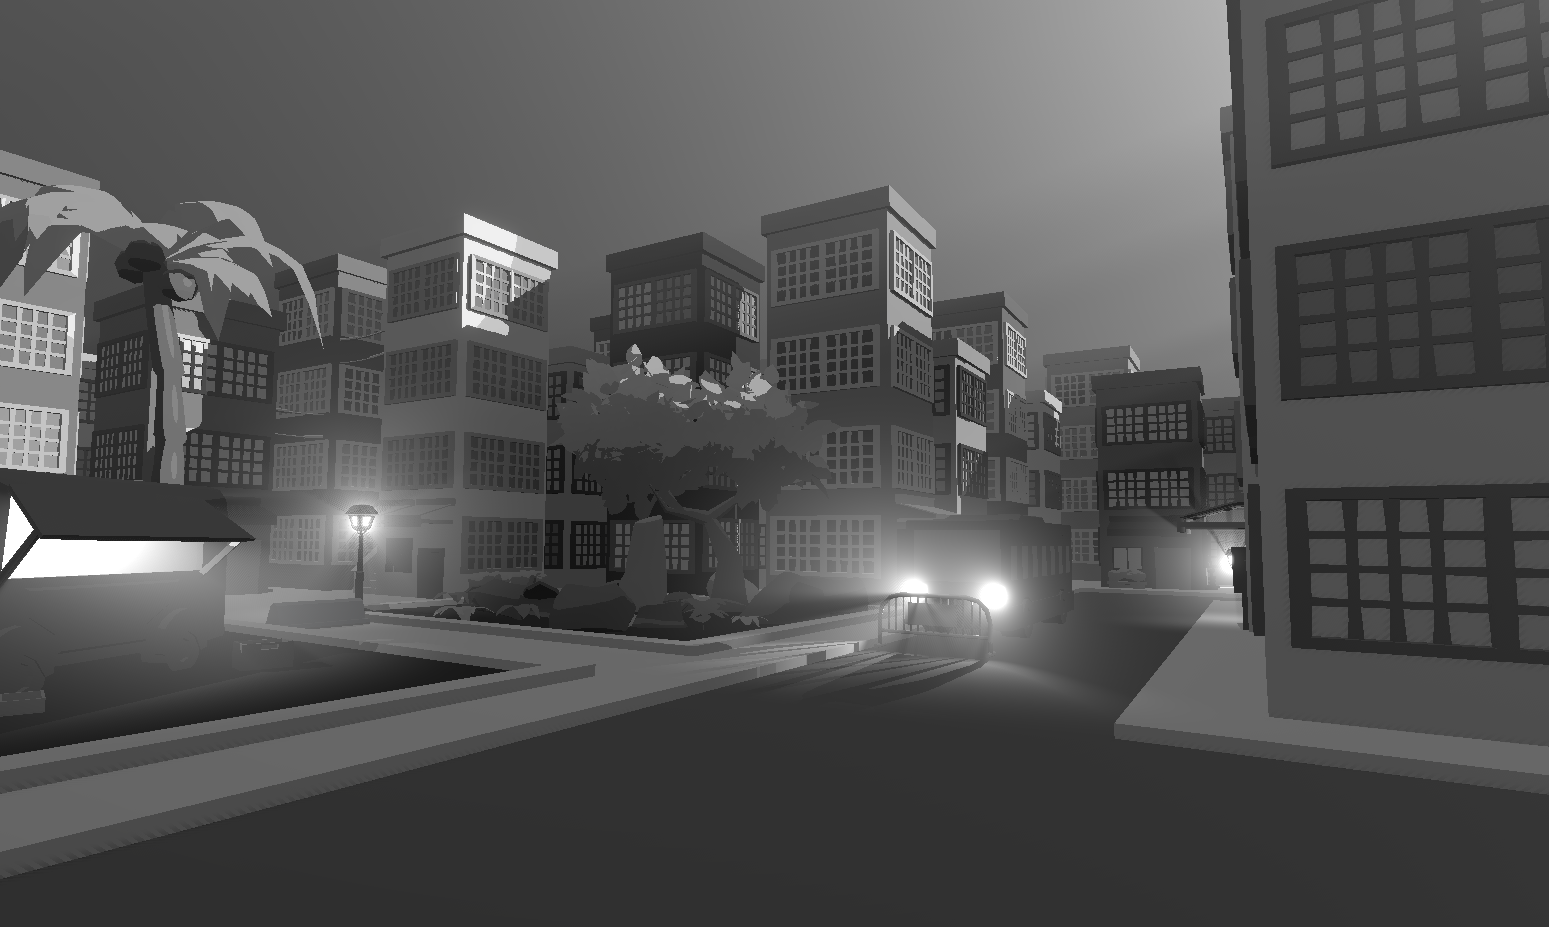
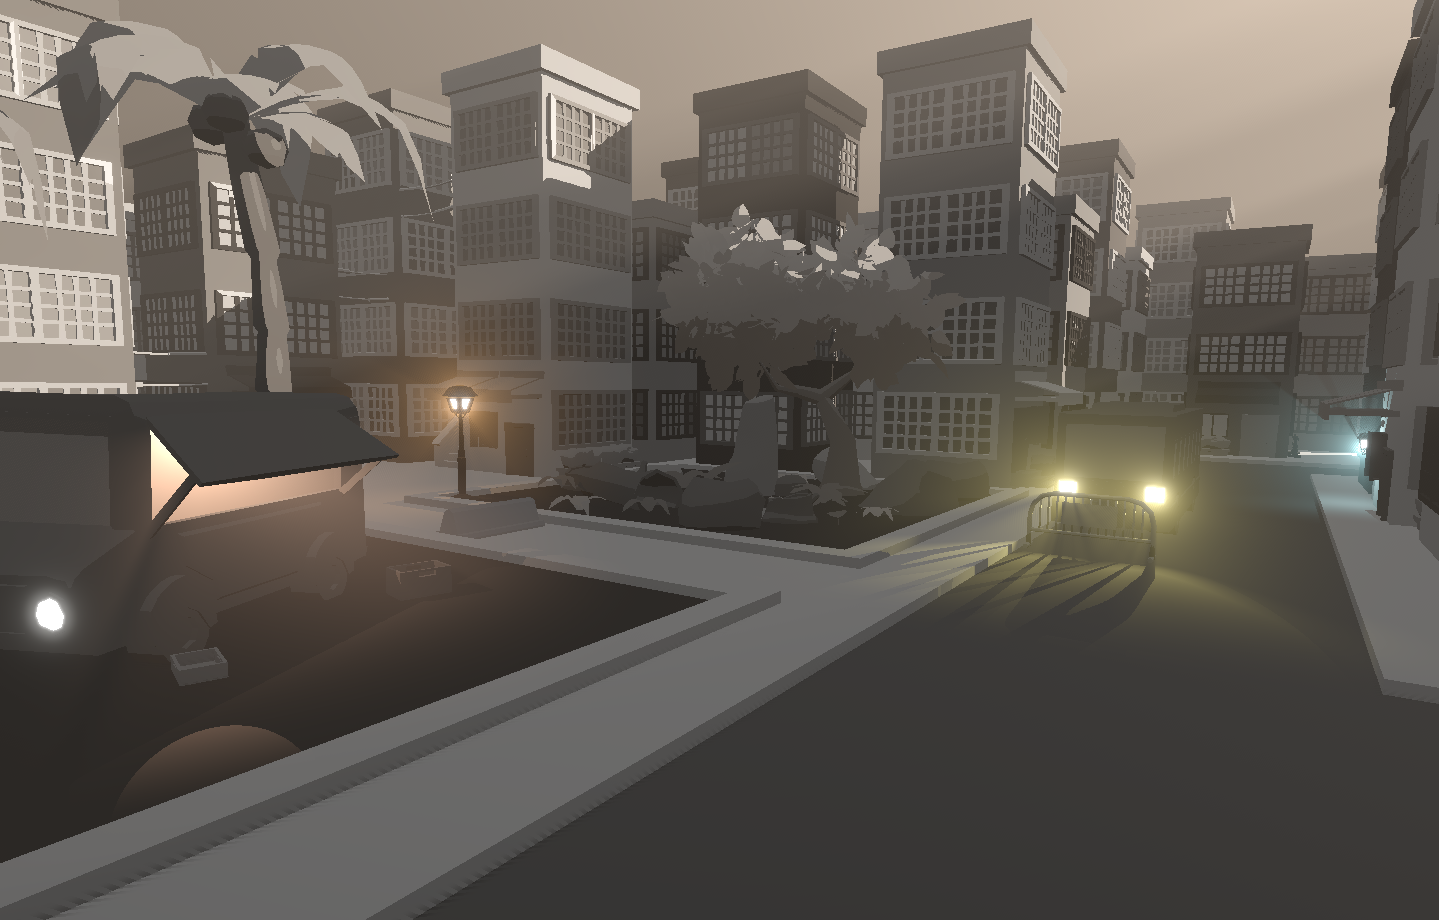
Replace Photos

diff --git a/VolumetricLighting.html b/VolumetricLighting.html
@@ -44,11 +44,90 @@
 				<!-- Main -->
 					<div id="main">
 						<div class="inner">
-							<center><h1>Volumetric Lighting</h1></center>
-							<center><span class="image fit" style="max-width: 600px; width: 100%;"><img src="images/VolumetricLighting/VolumetricLighting.png" alt="" /></span></center>
-							<p>Main light support</p>
-							<p>Additional light support</p>
-							<p>Low step count with striking visuals</p>
+
+							<!-- Header & Subtitle -->
+							<div style="text-align: center; margin-bottom: 40px;">
+								<h1>Nathan Gardea - Volumetric Lighting</h1>
+								<p style="font-size: 1.2em; color: #555; margin-top: -15px;">
+									<b>A raymarching shader built in Unity using HLSL</b> <br/>
+								</p>
+							</div>
+
+							<!-- Overall Showcase -->
+							<div style="text-align: center; margin-bottom: 40px;">
+								<span class="image fit" style="max-width: 1500px; width: 100%;">
+									<img src="images/VolumetricLighting/VolumetricLighting.png" alt="Stylized Fluids Hero Shot" />
+								</span>
+							</div>
+
+							<!-- Project Overview -->
+							<p><b>Overview - </b>Volumetrics use an expensive computation known as raymarching to function. This makes them hardly used in low-end software
+								and leads many people to replace them with particle system/quad based solutions. My goal is to make a volumetric lighting shader that can run efficiently
+								on most platforms. I'll eventually branch off this project to develop other raymarching shaders for fog, clouds, and raytracing.
+							</p>
+
+							<hr style="margin: 40px 0;" />
+
+							<!-- Version Release Lists -->
+							<div style="margin-bottom: 40px;">
+								<h3 style="margin-bottom: 10px;">Current Features</h3>
+								<ul style="list-style-type: disc; text-align: left; padding-left: 35px; margin: 0 auto; max-width: 95%;">
+									<li><b>Main light support</b>. Colors and intensity affect voluemtic color.</li>
+									<li><b>Additional light support</b>. Colors and intensity affect voluemtic color.</li>
+									<li><b>Henyey Greenstein subsurface scattering approximation</b>. (Main light only until additonal light optimizations are made).</li>
+									<li><b>Noise offset</b> to help hide step boundaries.</li>
+									<li>Noise offset scales with ray length. (Helps visuals look good from up close and far).</li>
+									<li><b>Forward+ support</b>. (Works with infinite many additional lights, however, more = worse performance).</li>
+								</ul>
+							</div>
+
+							<div style="margin-bottom: 40px;">
+								<h3 style="margin-bottom: 10px;">Future Roadmap</h3>
+								<ul style="list-style-type: disc; text-align: left; padding-left: 35px; margin: 0 auto; max-width: 95%;">
+									<li>Vastly improve additional light performance.</li>
+									<li>TAA support to help reduce noise artifacts.</li>
+									<li>Consider reducing screen resolution before calculations to help performance on higher resolution screens.</li>
+									<li>Reduce main light contribututions at farther distances to help reduce blinding main light.</li>
+								</ul>
+							</div>
+
+							<hr style="margin-bottom: 40px;" />
+
+							<!-- Main Light Comparison -->
+							<div style="text-align: center; margin-bottom: 20px;">
+								<h3 style="text-align: left; margin-bottom: 15px;">Main Light Showcase</h3>
+								<span class="image fit" style="max-width: 800px; width: 100%; display: inline-block; margin-bottom: 20px;">
+									<img src="images/VolumetricLighting/MainlightComparison.png" alt="Mainlight Comparison" style="border-radius: 4px;" />
+									<p>Main Light feature <b>Disabled (Left)</b>, Main light feature <b>Enabled(Right)</b></p>
+								</span>
+							</div>
+
+							<hr style="margin-bottom: 40px;" />
+
+							<h3 style="text-align: left; margin-bottom: 15px;">Additional Lights Showcase</h3>
+							<!-- Image Grid Row 1 -->
+							<div style="display: flex; justify-content: space-between; gap: 10px; margin: 20px 0;">
+								<div style="flex: 1; text-align: center;">
+									<img src="images/VolumetricLighting/AddOnly.png" alt="Additonal Light" style="width: 100%; height: auto; margin-bottom: 8px; border-radius: 4px;" />
+									<p>Additional lights feature <b>Enabled</b></p>
+								</div>
+								<div style="flex: 1; text-align: center;">
+									<img src="images/VolumetricLighting/None.png" alt="None" style="width: 100%; height: auto; margin-bottom: 8px; border-radius: 4px;" />
+									<p>Additional lights feature <b>Disabled</b></p>
+								</div>
+							</div>
+
+							<hr style="margin-bottom: 40px;" />
+
+							<!-- Main Light Comparison -->
+							<div style="text-align: center; margin-bottom: 20px;">
+								<h3 style="text-align: left; margin-bottom: 15px;">Main and Additional Showcase</h3>
+								<span class="image fit" style="max-width: 800px; width: 100%; display: inline-block; margin-bottom: 20px;">
+									<img src="images/VolumetricLighting/MainAdd.png" alt="Mainlight Comparison" style="border-radius: 4px;" />
+									<p><b>Main</b> and <b>Additional</b> light features enabled</p>
+								</span>
+							</div>
+
 						</div>
 					</div>
 			</div>

diff --git a/StylizedFluids.html b/StylizedFluids.html
@@ -94,6 +94,7 @@
 						</div>
 
 						<hr style="margin-bottom: 40px;" />
+						
 						<h3 style="text-align: left; margin-bottom: 15px;">Key Features</h3>
 						<!-- Image Grid Row 1 -->
 						<div style="display: flex; justify-content: space-between; gap: 10px; margin: 20px 0;">
@@ -105,7 +106,6 @@
 								<img src="images/StylizedFluids/ClearWater.png" alt="Depth and transparency" style="width: 100%; height: auto; margin-bottom: 8px; border-radius: 4px;" />
 								<p><b>Depth</b> and <b>transparency</b></p>
 							</div>
-							
 						</div>
 
 						<!-- Image Grid Row 2 -->